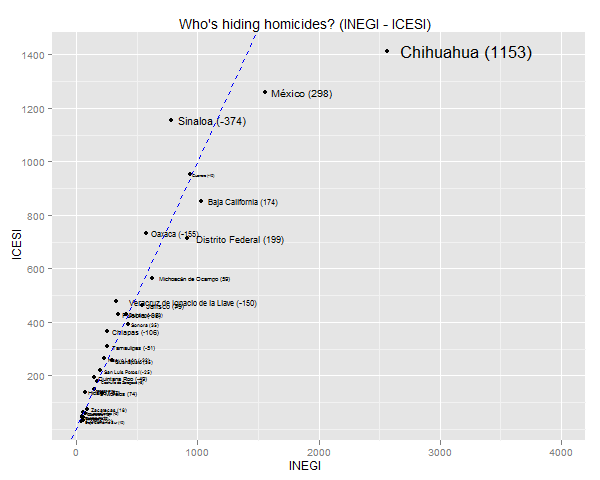
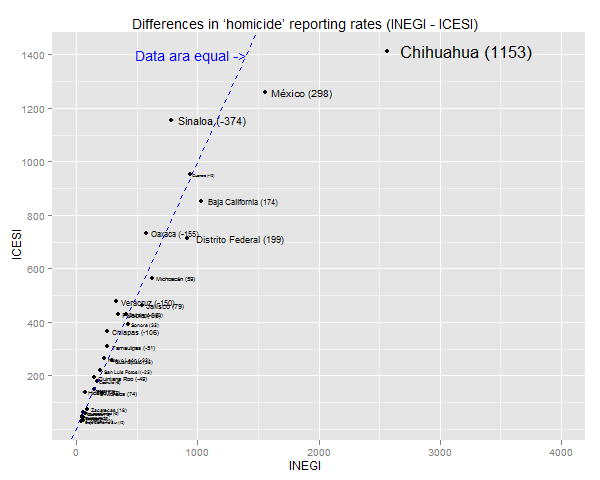
updated data from the Statistical Yearbooks

diff --git a/missing-homicides/readme.md b/missing-homicides/readme.md
@@ -1,17 +1,40 @@
-How realiable are Mexican Homicide Statistics
+How reliable are Mexican Homicide Statistics?
 ================================================
 
 There are 2 main sources of homicide statistics in Mexico, the vital
-statistics from the INEGI and the police data which are available at
+statistics from the INEGI, and the police data which are available at
 the ICESI (a civic association not affiliate with the
-government). Since both are available at the state level you can
+government which gets the data from the SNSP [Secretaría Nacional de Seguridad Pública]). But as it turns out the data from the ICESI is only an estimate
+(even if the secretary of the interior uses the data in his presentations
+as if it were the number of homicides), 
+still, you can download the final numbers from the Statistical Yearbooks of 
+each state. Since both data sources are available at the state level you can
 compare them and see if there are any differences.
-Data are also available from PAHO and the UN, but only at the national level, so I also compared them.
+
+The vital statistics from the INEGI, follow the [International Classification of Diseases](http://www.who.int/classifications/icd/en/) and so it is valid to do international comparisons with them.
+
+The plot gets thicker: it turns out the data from the ICESI for 2008 are only
+estimates (missing over 1,100 homicides in Chihuahua, looks like it was a mid-year
+"estimate"). The INEGI releases a series of statistical yearkbooks for each state
+that contain the final (final being over 90% reported) data according to the local police forces (homicide is a 
+local crime in Mexico). I didn't include the statistical yearbooks because they're
+about 250MB, but in the directory "anuarios" you'll find a script to download them
+
+Even thicker: the data from the ICESI and the statistical yearbooks are not even 
+homicides, but police reports. So if 18 kids are killed in a massacre at the same 
+time, and there's only one police report, they are recorded as one. The statistical
+yearbooks do have the data available by number of victims, but they combine "homicidios
+dolosos" (homicide) with "homicidios culposos" (manslaughter). I wonder, wonder why
+they would do this.
+
+Data are also available from PAHO and the UN, but only at the national level.
 
 Output
 ------
-* Chart of homicides rate according to the INEGI, ICESI, PAHO, and the UN Crime Survey
+* Chart of homicides rate according to the INEGI, ICESI, PAHO, and the UN Crime Survey.
+* Bar plot of the differences in number if homicides, one for the ICESI data and another for the final data from the Statistical Yearbooks.
 * Scatter plot of the different homicide data (INEGI vs ICESI). That is see if the police records (labeled ICESI) match those of the vital statistics system(labeled INEGI). The police records are missing over 1,100 homicides in Chihuahua alone.
+* Scatter plot against the proportions.
 
 Sources
 ------
@@ -21,10 +44,30 @@ __Mexican Homicide Data:__
 
 [ICESI](http://www.icesi.org.mx/documentos/estadisticas/estadisticas/denuncias_homicidio_doloso_1997_2008.xls)
 
-[PAHO] (http://www.paho.org/English/SHA/coredata/tabulator/newTabulator.htm) Pan American Health Organization, Health Analysis and Statistics Unit. Regional Core Health Data Initiative; Technical Health Information System. Washington DC, 2007.
+[Statistical Yearbooks](http://www.inegi.org.mx/est/contenidos/espanol/sistemas/sisnav/selproy.aspx): The following states were not available as of Feb-17-2009, so I used the estimates that appear in the file from the ICESI: Durango, Tlaxcala, Yucatan and Nayarit. Furthermore there was a mistake in the statistical yearbook for Querétaro (the data from "homicidios dolosos"[homicide] and "homicidios culposos"[manslaughter] was transposed).
+
+[PAHO](http://www.paho.org/English/SHA/coredata/tabulator/newTabulator.htm) Pan American Health Organization, Health Analysis and Statistics Unit. Regional Core Health Data Initiative; Technical Health Information System. Washington DC, 2007.
 
 UN Crime Survey: Eight and Seventh United Nations Survey of Crime Trends and Operations of Criminal Justice Systems
 
 __Population Data:__
 
 [Indicadores demográficos básicos 1990-2030](http://www.conapo.gob.mx/index.php?option=com_content&view=article&id=125&Itemid=203)
+
+CodeBook:
+---------
+INEGIvsICESI.csv
+
+Colums:
+State	| INEGI	| ICESI	| Abbrv	| Anuario	| Stat.Yrbks
+
+State - Name of the State
+
+INEGI - Number of homicides according to the INEGI
+
+ICESI - Number of homicides according to the ICESI (which takes the data from SNSP)
+
+Anuario - The raw values according to the Statistical Yearbooks
+
+Stat.Yrbks - The values from the Statistical Yearbook if available, if not, the data is from the ICESI
+
